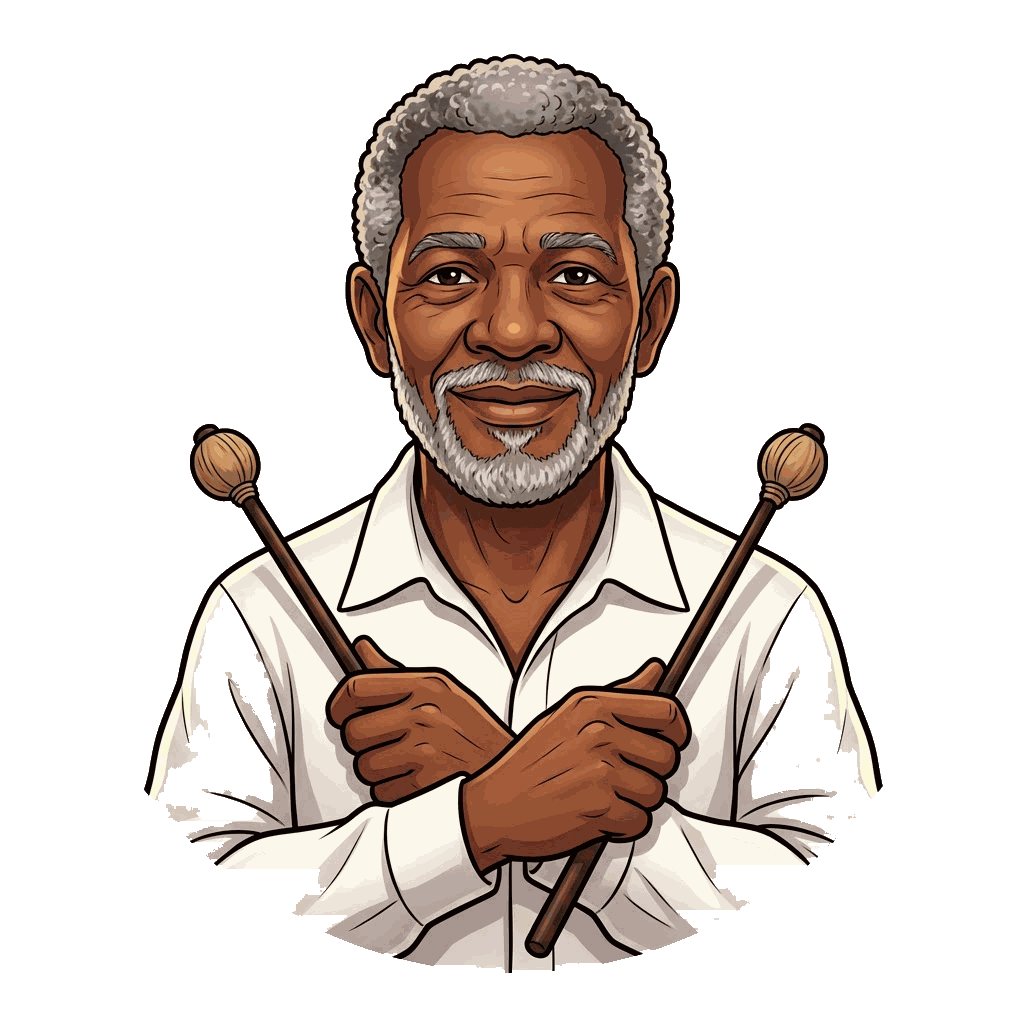
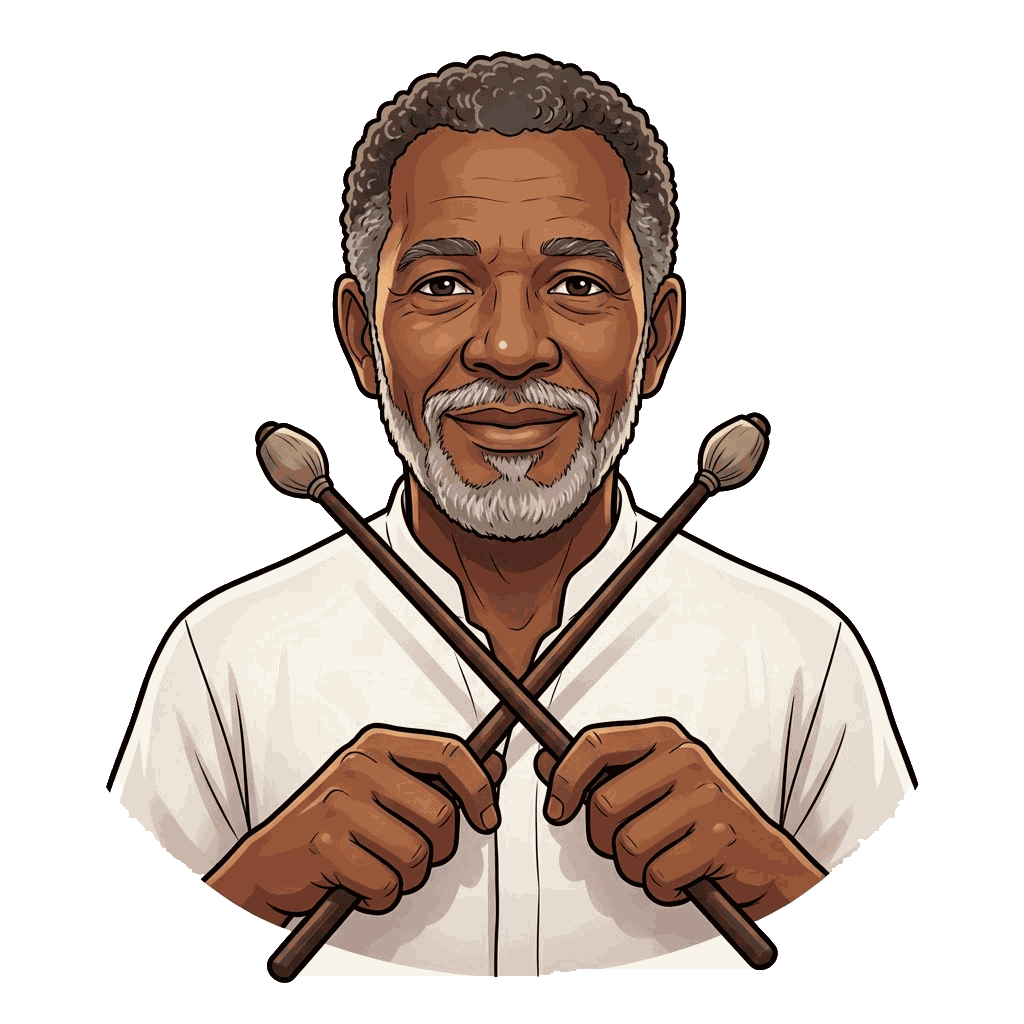
Avatares Vueltiao y Marimba con la camisa bien definida
Claude-Session: https://claude.ai/code/session_018WF81QxXjwt7KXbbpmrECt

diff --git a/GUIA-ILUSTRACIONES.md b/GUIA-ILUSTRACIONES.md
@@ -16,13 +16,7 @@ instrucciones de siempre, así las imágenes nuevas salen iguales a las que ya t
 **Listas y procesadas: 19 de 19** (los 7 del espantapájaros y los 12 avatares). Quedaron sin
 fondo en `public/cartas/` y los avatares ya salen en el selector del nombre.
 
-**Para repetir, pero no bloquea:**
-- `a_marimba.png`: la camisa blanca llega hasta el borde de abajo sin contorno de tinta, así que
-  al quitar el fondo blanco se come parte de la camisa. Pídelo otra vez con la frase *«con el
-  contorno de tinta cerrado alrededor de todo el busto, también abajo»*, o con la camisa de otro
-  color. Está entre los de candado, así que todavía nadie lo ve.
-- `a_vueltiao.png` quedó bien, pero tiene el mismo riesgo por la guayabera blanca. Si lo repites
-  por otra razón, usa la misma frase.
+`a_vueltiao.png` y `a_marimba.png` se repitieron con la camisa bien definida y ya quedaron.
 
 ---
 
